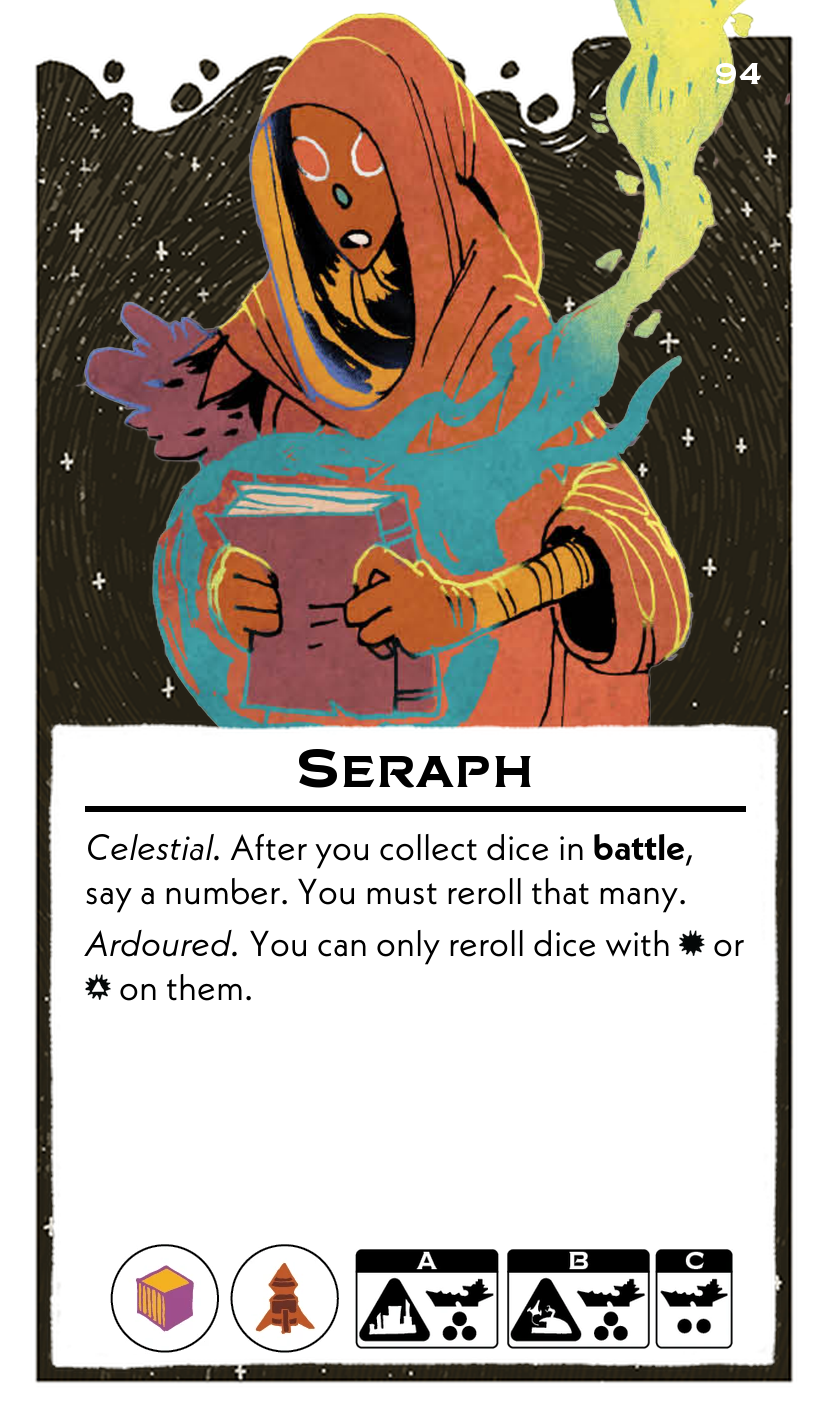
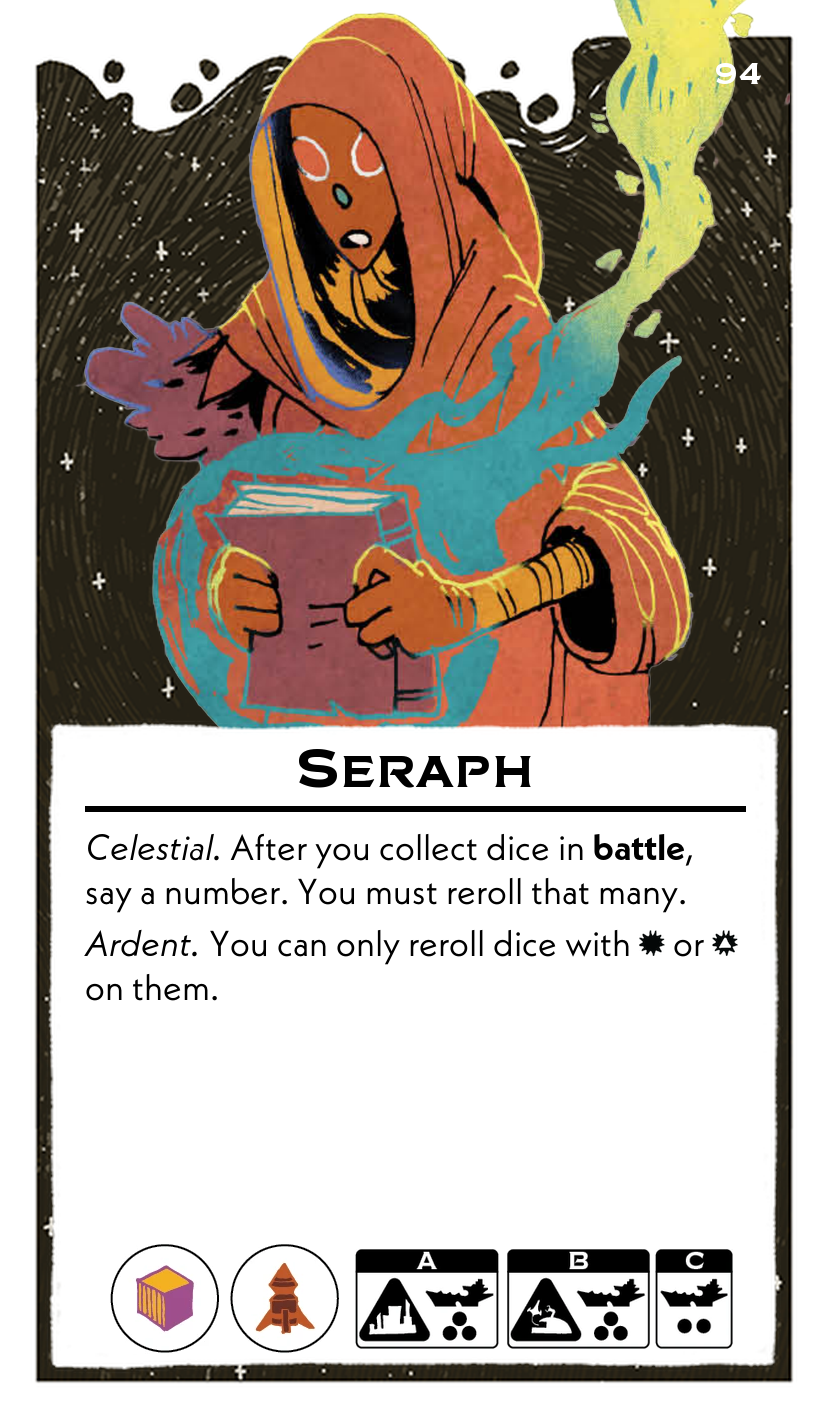
paragon

Changed region(s): [[0.0907, 0.6521, 0.9069, 0.7142]]

diff --git a/scripts/leadersFormatted.py b/scripts/leadersFormatted.py
@@ -1376,7 +1376,7 @@ leaders = [
         "abilities": (
             "*Capitalizing.* In **setup**, gain any 2 resources, place them on this card. This card holds any number of resources. Their raid cost is {icon:dice_key_black} each.\n"
             "*Yielding.* When you **declare an ambition**, gain 1 resource of each type on this card.\n"
-            "*Diversified.* When you **tax**, dont gain a resource if you already have a resource of that type."
+            "*Diversified.* When you **tax**, don't gain a resource if you already have a resource of that type."
         ),
         "resources": ["", ""],
         "setup": {
@@ -1408,7 +1408,7 @@ leaders = [
         "name": "Syndic",
         "abilities": (
             "*Networked.* You can **tax** any city in a cluster where you control 2 systems.\n"
-            "*Compartmental.* You cannot **build** buildings in systems adject to a system with another loyal building."
+            "*Compartmental.* You cannot **build** buildings in systems adjecent to a system with another loyal building."
         ),
         "resources": ["Psionic", "Material"],
         "setup": {
@@ -1439,7 +1439,7 @@ leaders = [
         "name": "Seraph",
         "abilities": (
             "*Celestial.* After you collect dice in **battle**, say a number. You must reroll that many.\n"
-            "*Ardoured.* You can only reroll dice with {icon:dice_hit_black} or {icon:dice_building_hit_black} on them."
+            "*Ardent.* You can only reroll dice with {icon:dice_hit_black} or {icon:dice_building_hit_black} on them."
         ),
         "resources": ["Material", "Weapon"],
         "setup": {
@@ -1450,6 +1450,22 @@ leaders = [
         "body_font_size": 18,
         "zoom": 1.15
     },
+    {
+        "name": "Paragon",
+        "abilities": (
+            "*Exemplary.* When you Pivot and play a card of equal rank to the lead card, you may use all pips on your played card.\n"
+            "*Immutable.* You cannot Pivot with cards of different rank than the lead card.\n"
+        ),
+        "resources": ["Psionic", "Relic"],
+        "setup": {
+            "A": {"ships": 3, "building": "city"},
+            "B": {"ships": 3, "building": "starport"},
+            "C": {"ships": 2, "building": "None"}
+        },
+        "body_font_size": 18,
+        "zoom": 1.15
+    },
+
     # {
     #     "name": "Forgemaster",
     #     "abilities": (
@@ -1501,104 +1517,4 @@ leaders = [
     #     },
     #     "body_font_size": 12.7
     # },
-    # {
-    #     "name": "Volley",
-    #     "abilities": (
-    #         "*Concentrated.* When resolving non-battle or battle dice, you may roll an extra pool of up to 6 dice and count each die that meets or beats 4 as a success. For each success, gain 1 hit (in battle) or 1 Weapon (outside battle).\n"
-    #         "*Depleting.* At the end of each chapter, discard 1 Material."
-    #     ),
-    #     "resources": ["Weapon", "Fuel"],
-    #     "setup": {
-    #         "A": {"ships": 3, "building": "city"},
-    #         "B": {"ships": 3, "building": "starport"},
-    #         "C": {"ships": 2, "building": "None"}
-    #     },
-    #     "body_font_size": 18
-    # },
-    # {
-    #     "name": "Challenger",
-    #     "abilities": (
-    #         "*Challenging.* When attacking in battle, you may issue a single opposed roll against one defending ship: roll one die, the defender rolls one die; if yours is higher, add 1 hit; if lower, suffer 1 hit to an attacking ship. Ties do nothing.\n"
-    #         "*Rash.* When you declare an ambition, discard 1 resource."
-    #     ),
-    #     "resources": ["Weapon", "Relic"],
-    #     "setup": {
-    #         "A": {"ships": 3, "building": "city"},
-    #         "B": {"ships": 3, "building": "starport"},
-    #         "C": {"ships": 2, "building": "None"}
-    #     },
-    #     "body_font_size": 18
-    # },
-    # {
-    #     "name": "Builder",
-    #     "abilities": (
-    #         "*Constructive.* When you roll dice battle, you may place one rolled die onto any planet you control as a worker. Values 1-2: gain 1 Material; 3-4: build (place a building token); 5-6: repair or move a ship. Remove the worker at round end.\n"
-    #         "*Grounded.* You cannot Catapult move more than once per round."
-    #     ),
-    #     "resources": ["Material", "Relic"],
-    #     "setup": {
-    #         "A": {"ships": 3, "building": "city"},
-    #         "B": {"ships": 3, "building": "starport"},
-    #         "C": {"ships": 2, "building": "None"}
-    #     },
-    #     "body_font_size": 18
-    # },
-    # {
-    #     "name": "Gambit",
-    #     "abilities": (
-    #         "*Prepared.* You have one Gambit token each chapter. Spend it to reroll any single die you rolled (battle or otherwise) and take the new result. Regain the token when you score.\n"
-    #         "*Tempting.* At the end of your Prelude, discard 1 resource."
-    #     ),
-    #     "resources": ["Weapon", "Material"],
-    #     "setup": {
-    #         "A": {"ships": 3, "building": "city"},
-    #         "B": {"ships": 3, "building": "starport"},
-    #         "C": {"ships": 2, "building": "None"}
-    #     },
-    #     "body_font_size": 18
-    # },
-    # {
-    #     "name": "Scout",
-    #     "abilities": (
-    #         "*Progressive.* At the start of each chapter, roll a die to advance along a short progress track (1-6). When you reach 10 progress, claim the reward: gain 2 Fuel and repair 1 Loyal ship. Progress resets after reward.\n"
-    #         "*Restless.* At the end of each chapter, remove 1 progress."
-    #     ),
-    #     "resources": ["Fuel", "Material"],
-    #     "setup": {
-    #         "A": {"ships": 3, "building": "city"},
-    #         "B": {"ships": 3, "building": "starport"},
-    #         "C": {"ships": 2, "building": "None"}
-    #     },
-    #     "body_font_size": 18
-    # },
-    # {
-    #     "name": "Deceiver",
-    #     "abilities": (
-    #         "*Deceptive.* When you roll dice for influence or other hidden-resolution effects, you may keep one die face hidden and state a claim about it. If an opponent challenges and is wrong, they lose 1 resource of their choice; if they're right, you lose 1 resource.\n"
-    #         "*Exposed.* When you secure a card, discard 1 resource."
-    #     ),
-    #     "resources": ["Psionic", "Relic"],
-    #     "setup": {
-    #         "A": {"ships": 3, "building": "city"},
-    #         "B": {"ships": 3, "building": "starport"},
-    #         "C": {"ships": 2, "building": "None"}
-    #     },
-    #     "body_font_size": 18
-    # },
-    # {
-    #     "name": "Iconographer",
-    #     "abilities": (
-    #         "*Iconic.* One die you roll each battle may be treated as a custom icon die: treat any 6 on that die as a special symbol. When that die shows a 6, trigger: gain 1 Relic or convert one hit into an intercept.\n"
-    #         "*Unstable.* At the start of each chapter, discard 1 resource."
-    #     ),
-    #     "resources": ["Relic", "Weapon"],
-    #     "setup": {
-    #         "A": {"ships": 3, "building": "city"},
-    #         "B": {"ships": 3, "building": "starport"},
-    #         "C": {"ships": 2, "building": "None"}
-    #     },
-    #     "body_font_size": 18
-    # },
-    # 
-    # When you play a card of equal rank as the lead card you may use all your pips
 ]
